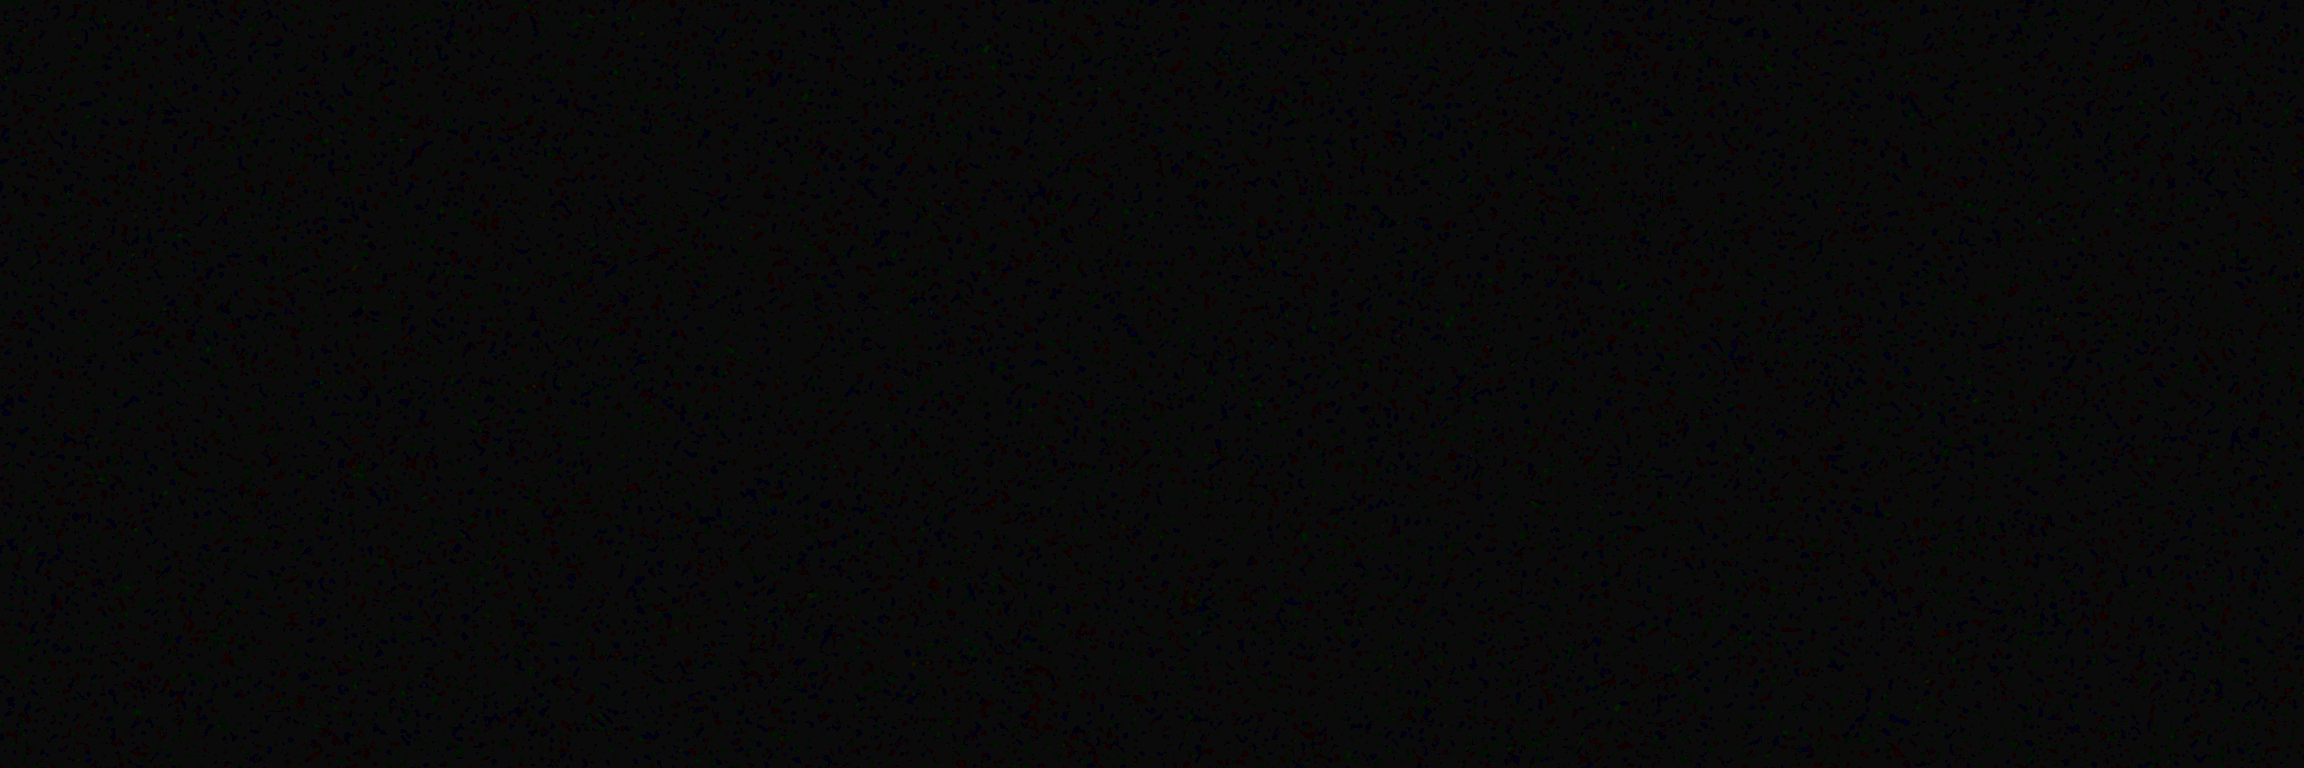
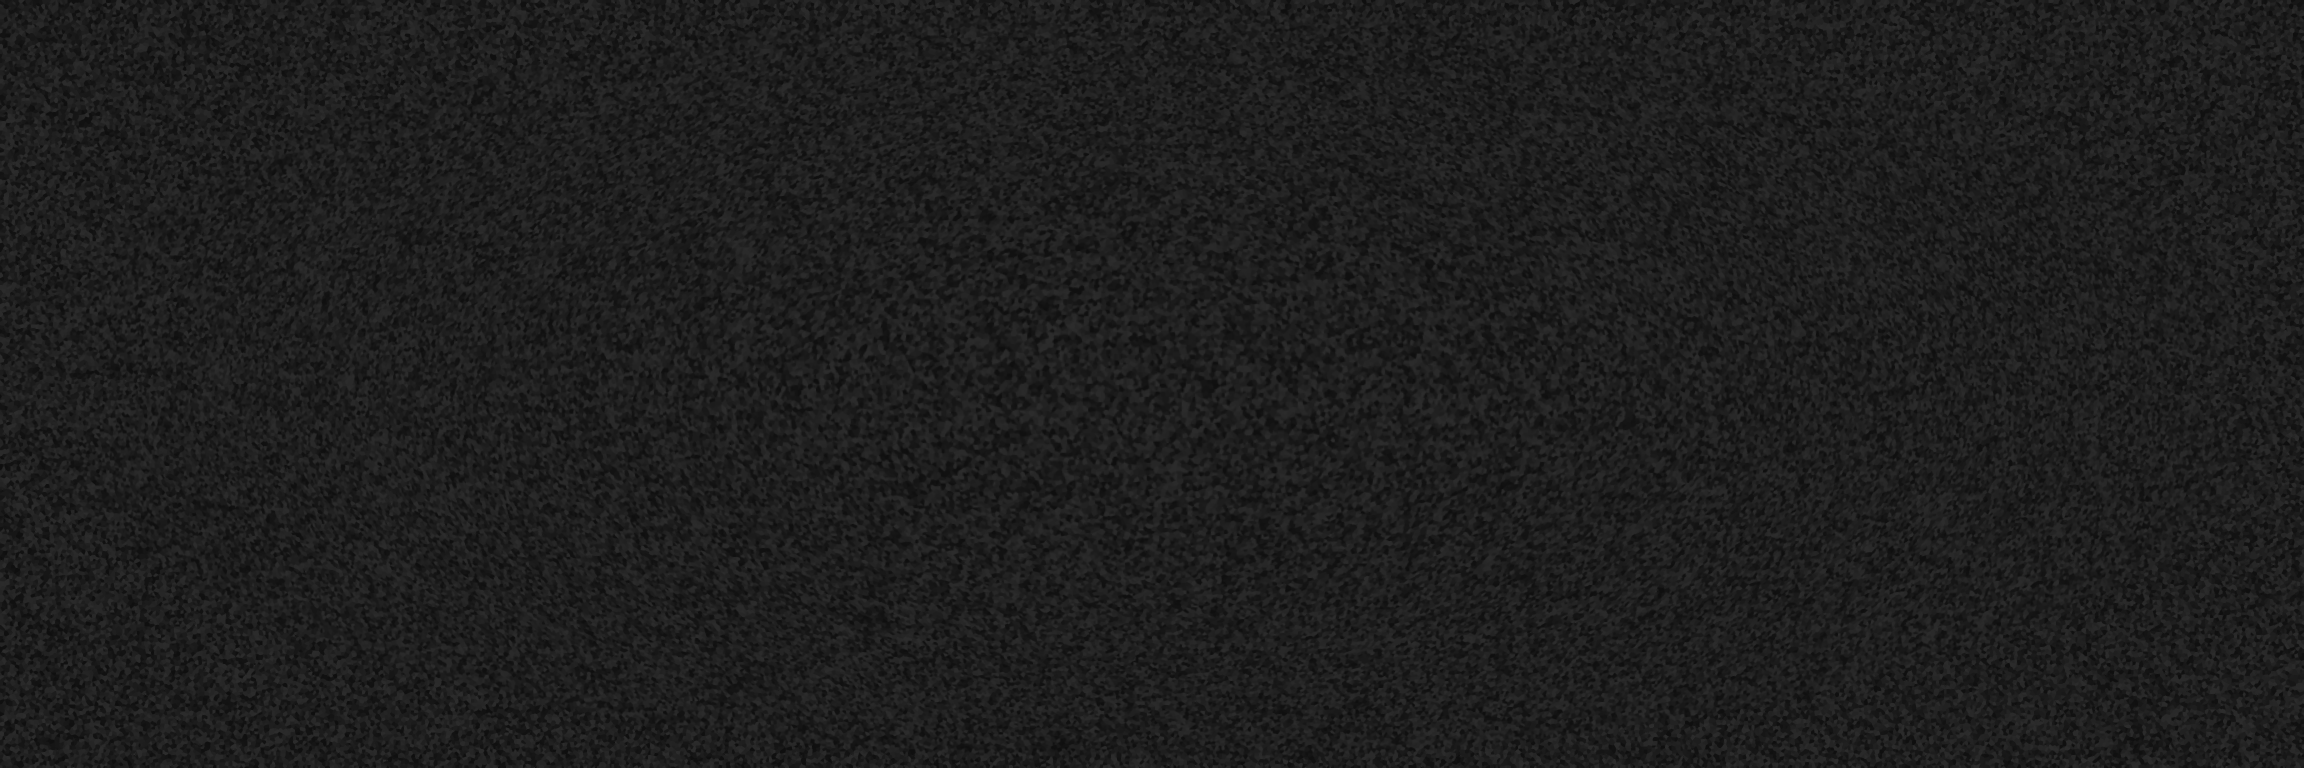
updated background and implemented random asteroid spawning

diff --git a/core/src/net/kitz/starsiege/entities/Asteroid.java b/core/src/net/kitz/starsiege/entities/Asteroid.java
@@ -1,26 +1,23 @@
 package net.kitz.starsiege.entities;
 
-import com.badlogic.gdx.Gdx;
-import com.badlogic.gdx.Input;
-import com.badlogic.gdx.graphics.Color;
 import com.badlogic.gdx.graphics.Texture;
 import com.badlogic.gdx.graphics.g2d.Sprite;
 import com.badlogic.gdx.graphics.g2d.SpriteBatch;
-import com.badlogic.gdx.math.MathUtils;
-import com.badlogic.gdx.math.Vector2;
 
 public class Asteroid extends Entity {
+    float fsRot, fAstx, fAsty;
 
-    private float arfRotCorrection[] = new float[2];
     private Sprite sprAsteroid;
 
 
-    public Asteroid(float x, float y, float nSize, float nVelx, float nVely) {
+    public Asteroid(float x, float y, float nSize, float fRot, float fVelx, float fVely) {
         super(x, y, EntityType.ASTEROID);
         InitSpr();
         sprAsteroid.setOrigin(16, 16);
         sprAsteroid.setScale(nSize);
-
+        fsRot = fRot;
+        fAstx = x;
+        fAsty = y;
     }
 
     private void InitSpr() {
@@ -31,35 +28,9 @@ public class Asteroid extends Entity {
 
     @Override
     public void update(float fDeltaTime, float fGravity) {
-
         sprAsteroid.setPosition(getPos().x, getPos().y);
-
-
-        EdgeDet();
-        this.fRot = MathUtils.radiansToDegrees * MathUtils.atan2
-                ((720 - Gdx.input.getY()) - arfRotCorrection[1],
-                        Gdx.input.getX() - arfRotCorrection[0]);
-
-        if (Gdx.input.isKeyPressed(Input.Keys.LEFT)) getPos().x -= 1;
-        if (Gdx.input.isKeyPressed(Input.Keys.RIGHT)) getPos().x += 1;
-        if (Gdx.input.isKeyPressed(Input.Keys.UP)) getPos().y += 1;
-        if (Gdx.input.isKeyPressed(Input.Keys.DOWN)) getPos().y -= 1;
-        if (Gdx.input.isKeyPressed(Input.Keys.R)) System.out.println(getPos().x + " " + getPos().y);
-
-        sprAsteroid.rotate((float) Math.abs(Math.random() + 12));
-
+        sprAsteroid.rotate(fsRot);
         super.update(fDeltaTime, fGravity);
-    }
-
-    private void EdgeDet() {
-        if (getPos().x > 16000)
-            arfRotCorrection[0] = getPos().x - (16380);
-        if (getPos().y > 16000)
-            arfRotCorrection[1] = getPos().y - (16380);
-        if (getPos().x < 0)
-            arfRotCorrection[0] = getPos().x + 60;
-        if (getPos().y < 0)
-            arfRotCorrection[1] = getPos().y + 60;
     }
 
     @Override

diff --git a/core/src/net/kitz/starsiege/world/GameMap.java b/core/src/net/kitz/starsiege/world/GameMap.java
@@ -17,13 +17,18 @@ import static net.kitz.starsiege.world.MapAsteroid.ASTEROID_SIZE;
 public abstract class GameMap implements InputProcessor {
 
     Random rand = new Random();
-    int nEntityCounter = 0, nMaxEntities = 500;
+    int nEntityCounter = 0;
 
     public ArrayList<Entity> entities;
 
     public GameMap() {
-        entities = new ArrayList<Entity>(nMaxEntities);
+        entities = new ArrayList<>();
         entities.add(new Player(203, 203));
+        while (nEntityCounter < 500) {
+            nEntityCounter += 1;
+            entities.add(new Asteroid(rand.nextInt(16255), rand.nextInt(16255),
+                    rand.nextFloat() + 1, rand.nextFloat() + 4, 2, 2));
+        }
         Gdx.input.setInputProcessor(this);
     }
 
@@ -37,6 +42,9 @@ public abstract class GameMap implements InputProcessor {
     public void update(float delta) {
         for (Entity entity : entities) {
             entity.update(delta, -9.8f);
+        }
+        for (int i = 1; i < nEntityCounter; i++) { //todo:read X&&Y from every asteroid and remove ones with x||y < 0
+
         }
     }
 
@@ -99,8 +107,8 @@ public abstract class GameMap implements InputProcessor {
     public boolean keyDown(int keycode) {
         if (keycode == Input.Keys.F) {
             nEntityCounter += 1;
-            entities.add(new Asteroid(rand.nextInt(240) + 30, rand.nextInt(240) + 30,
-                    rand.nextFloat() + 1, 2, 2));
+            entities.add(new Asteroid(rand.nextInt(16255), rand.nextInt(16255),
+                    rand.nextFloat() + 1, rand.nextFloat() + 4, 2, 2));
         }
         return false;
     }
